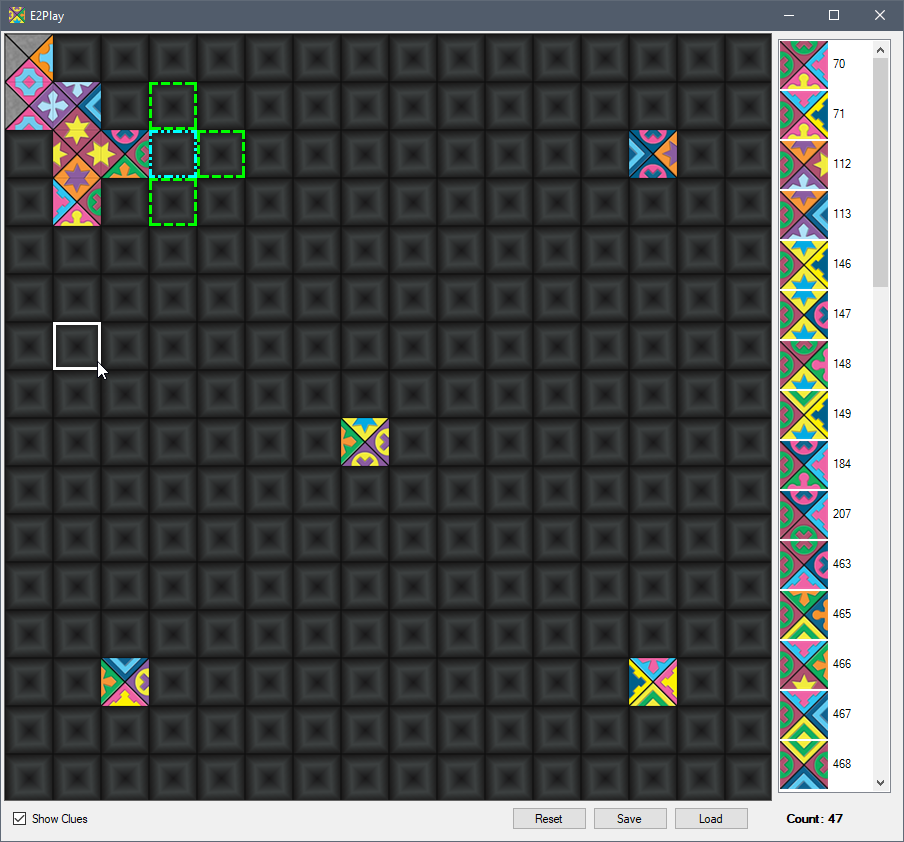
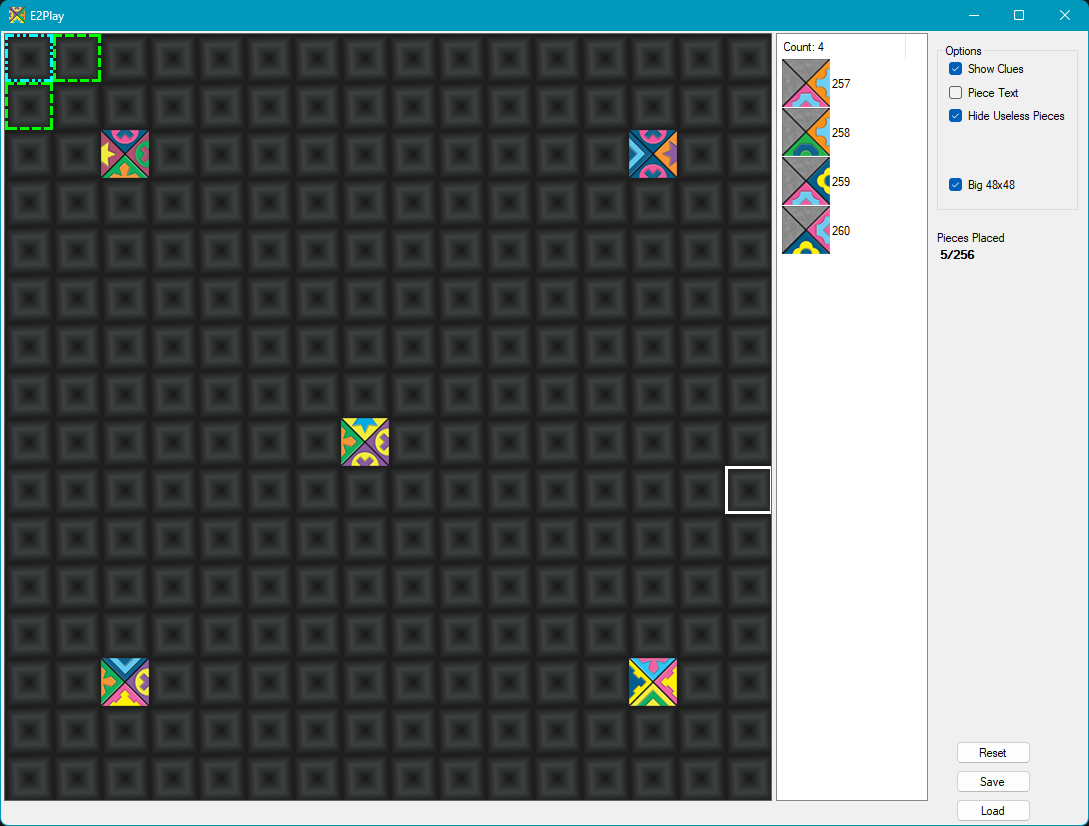
Updated the README

diff --git a/README.md b/README.md
@@ -4,53 +4,95 @@
 
 E2Play is a program to place pieces for the Eternity II puzzle instead of manually trying to solve on a table. It's not a magic solver unfortunately but makes it a bit easier to try and manually solve the puzzle.
 
-It's pretty basic and built using .Net Framework 2.0 so should run on just about any windows machine. It was created some time ago in VB but I've now moved it to C# as that is what I primarily use nowadays.
+It's pretty basic and built using .Net Framework 4.7 so should run on just about any windows machine. It was created some time ago in VB but I've now moved it to C# as that is what I primarily use nowadays.
 
-It consists of 2 main windows. The one on the left is the board, and the right a list of pieces that can fit in the selected spot. Click on a space on the board and a list of pieces will be shown that can fit there. the list will sometimes show more than 256 pieces as I've stored them all with all the rotations. Selecting a piece in the list will place it on the board and update the list accordingly. 
 
-Select a place on the board with the left mouse button and pick a tile from the list on the right. To remove a tile right click on it. Selected tile is shown in Cyan.
 
-![Main](docs/Main.png)
+#### Running
 
-It will also show you how many tiles will fit in the matching squares around it. The Colour represents how many tiles it can find to fit in the space.
+You should be able to just download the .zip of the repository and run the .exe in the exe folder, or alternatively just take the 3 files from the exe folder and copy them locally into any folder in Windows.
 
-| Colour | Number of matching pieces found |
-| ------ | ------------------------------- |
-| Red    | No matching tiles               |
-| Pink   | Only 1 piece found              |
-| Orange | 2 pieces found                  |
-| Yellow | 3 pieces found                  |
-| Green  | 4 or more pieces found          |
 
-This image shows we've placed a tile on Row 1 Col 1 and you can see there are no tiles that can fit above and only 2 left or below.
 
-![img1](docs/img1.png)
+The main window consists of 3 sections. The one on the left is the main board, next is the piece list window, and finally some options and a count of placed pieces.
 
-In the next one we have 2 that can fit above and 3 to the right.
+![](docs/Main.png)
 
-![img2](docs/img2.png)
+The White square is the cursor and you move that to a square you want to place a tile. left click and the list of pieces will show up in the piece list window. The square you click on will change to Cyan and then other squares will highlight around that to show how many other pieces can fit in the surrounding squares.
 
-Most of the other stuff should be self explanatory.
+![](docs/Selection2.png)
 
-Clicking Show Clues will place all the clue pieces on the board.
+Each coloured square means different numbers of pieces can fit there.
 
-Reset clears the board to start over.
+![](docs/red.png)there are no pieces that can fit in this square
 
-Save will save the current state to a file called E2Progress.e2p in the same folder as the .exe.
+![](docs/pink.png)only 1 tile is available to fit in this square
 
-Load will load a saved progress.
+![](docs/orange.png)at least 2 tiles are available for this square
+
+![](docs/yellow.png)at least 3 tiles are available for this square
+
+![](docs/green.png)at least 4 or more tiles are available.
+
+In the example above, the selected tile (Cyan) is highlighted on row 5 column 3. There is no tile that can fit in the square above, only 1 tiles can go in the square to the left, and there are 4 or more tiles that can go in the square below.
+
+With the square highlighted, click on a piece from the piece list to place it on the board.
+
+![](docs/tilepicked.png)
+
+Here I am selecting tile 1022.
+
+![](docs/tileplaced.png)
+
+Placing that tile on the selected square now shows all red surrounds so there are no tiles that could be placed after that one. You can either right click the selected tile to remove it from the board or go back to the piece list and pick another tile. This will swap the tile on the board with the new selection. Picking tile 354 instead now shows a piece can be placed left and bottom.
+
+![](docs/tileplaced2.png)
+
+Not the best example as having no tile in that spot give a red square above the selection so no matter what tile you put there the one above will never have anything that can be placed there. You could place a tile and then go back and remove other tiles above to get better results although in this case the clue piece is in row 3 column 3 and can't be individually removed.
+
+#### Options
+
+Not a lot to pick from in the options.
+
+![](docs/options.png)
+
+If you don't want to use the clues then untick the "Show Clues" options. Clues will be available to use in the selections.
+
+Hide Useless Pieces, should the only show selections in the piece list that when placed would have some tiles surrounding with 1 or more available pieces. Selections that would result in all surrounding tiles having 0 tiles that could be placed would get excluded from the selection list.
+
+Big 48x48 is the regular size of the tiles. Unticking this will reduce the tiles size to 32x32 to cater for smaller laptop screens.
+
+Piece Text will show the piece number and rotation for pieces placed on the board.
+
+![](docs/MainWithText.png)
+
+The piece text is either a single number or the piece number with a /rotation after it. The rotation is clockwise by the number so /1 is rotated 90 degrees clockwise /2 180 degrees and /3 270 degrees.
+
+Underneath options show how many pieces of the 256 have been placed on the board.
+
+
+
+#### Buttons
+
+There are 3 buttons. Reset, Save and Load.
+
+Reset will clear the board back to default. Save allows you to save the current layout to disk to resume later, and Load will allow you to load any saved sessions. You can have as many saves as you want just by using different filenames. Files are saved with the extension .e2p. You will notice when loading there is another option to load .E2O files.
+
+![](docs/load.png)
+
+This option allows loading of saved files from the backtracker solver into E2Play to work on. I'll get around to uploading the solver to GitHub at some stage :-)
 
 
 
 ## Development
 
-I might look at tweaking it a bit from the original like adding piece numbers to the tile when I get a chance. Maybe extend the piece search on surrounding tiles based on what might be selected.
+The code is not elegant or pretty as it was a bit of a hack job moving it from some old VB code to C#. I've only recently started updating so will try and tidy things up a bit more and see if I can add any additional enhancements. I may try and incorporate the C++ solver code into it so it can be partially solved, then maybe manually tweaked, then get the solver to have another go. Not sure yet and depends on free time.
 
 
 
 ## Build
 
-You should be able to just load the whole thing into Visual Studio and build.
+You should be able to download the zip (or clone) and just load the whole thing into Visual Studio and build. I've been using VS2022 but it's all stock windows controls so nothing special.
 
 
 
